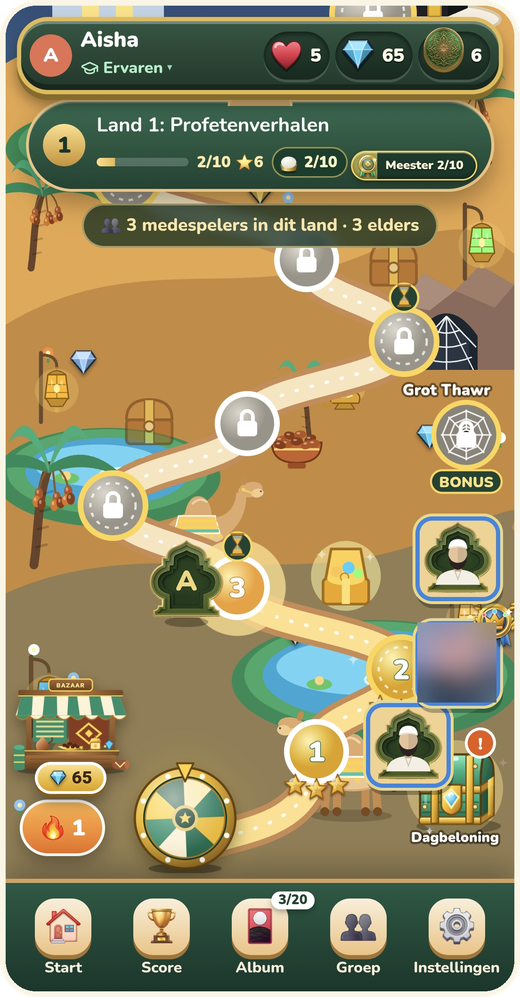
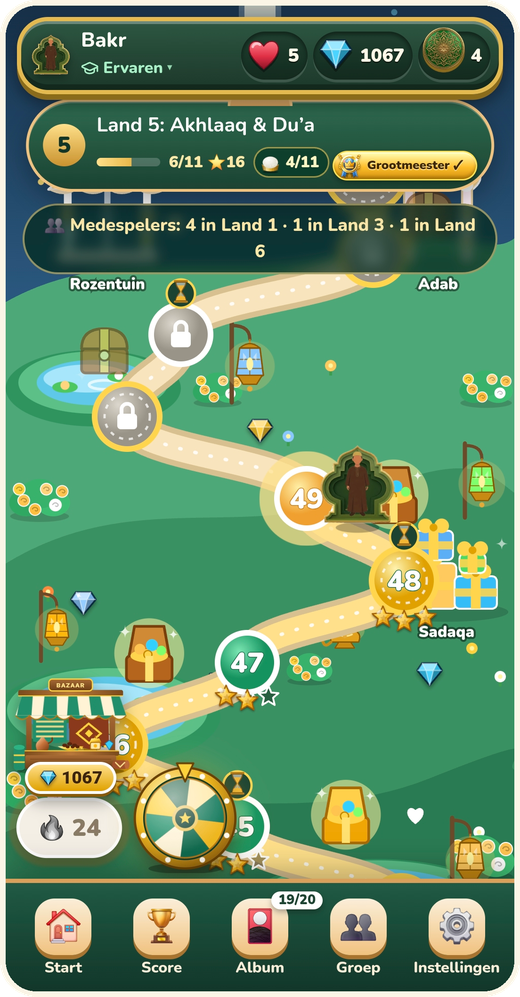
Reiskaart-preview vervangen door Land 5 (naam in beeld aangepast)
Claude-Session: https://claude.ai/code/session_01JY69MZhGySfDRTzfEMXLTw

diff --git a/tester/index.html b/tester/index.html
@@ -92,7 +92,7 @@ footer .wrap { display: flex; flex-wrap: wrap; gap: 8px 18px; justify-content: s
 
 <h2>Zo ziet het eruit</h2>
 <p>Een reis langs levels, sterren en schatkisten. Hier zie je een stukje van de reiskaart.</p>
-<p style="text-align:center"><img src="/tester/reiskaart.png" alt="Voorbeeld van de reiskaart in NurSpark: een pad door de woestijn met levels, sterren en een schatkist" width="260" style="max-width:70%;height:auto;border-radius:22px;box-shadow:0 10px 28px rgba(27,67,50,.25)"></p>
+<p style="text-align:center"><img src="/tester/reiskaart.png" alt="Voorbeeld van de reiskaart in NurSpark: een pad door een groen landschap met levels, sterren en schatkisten" width="260" style="max-width:70%;height:auto;border-radius:22px;box-shadow:0 10px 28px rgba(27,67,50,.25)"></p>
 
 <h2>Waarom testen?</h2>
 <p>Voordat NurSpark in de Play Store komt, moeten er mensen de app 14 dagen uitproberen. Door mee te doen help je ons enorm. De app is gratis en zonder advertenties.</p>
